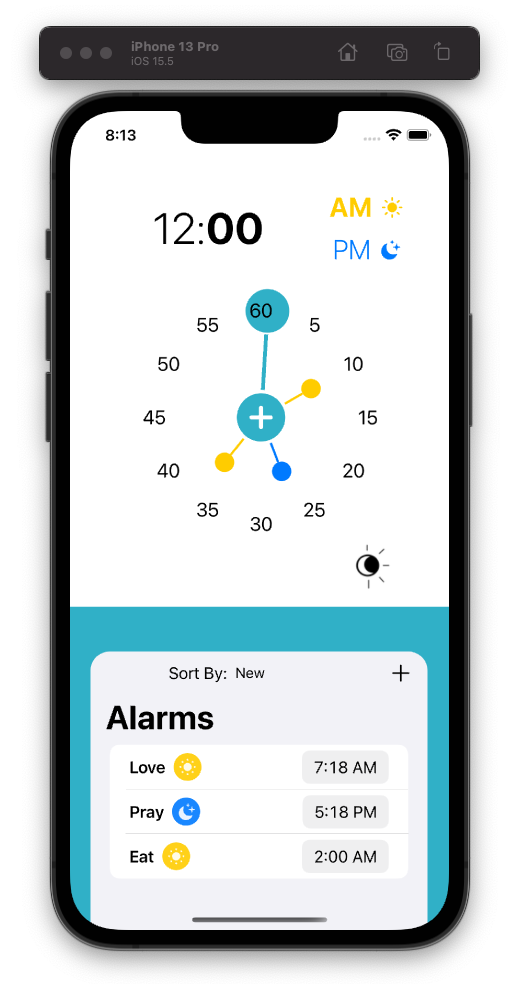
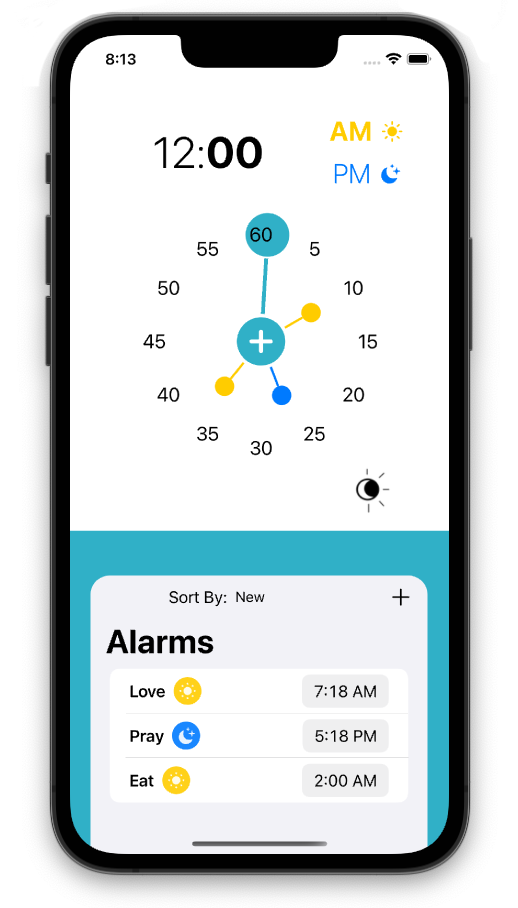
image and blurb

diff --git a/index.md b/index.md
@@ -7,6 +7,10 @@ categories: Apps
 
 <!-- ![image](https://user-images.githubusercontent.com/92299/220574713-c0d4f0c3-a284-410f-a59e-d3b5a84e47ba.png) --> 
 
+&nbsp;
+
+RENSOR App Collection is launching a suite of apps for iOS starting in 2023.
+
 ## Projects
 
 ![image](https://user-images.githubusercontent.com/92299/220574806-efecbde8-0ea5-4b81-bddf-9fe7b43da2ee.png)
@@ -18,7 +22,7 @@ Our first app, Clock App is our first iOS application which has been a learning 
 Clock App was born from our frustration at how the iOS clock alarm feature made it difficult to set daily alarms
 and see all of your alarms at a glance.
 
-<img style="height: 400px;" src="/assets/images/eat_pray_love.png" />
+<img style="height: 400px;" src="/assets/images/eat_pray_love.png?1" />
  
 Currently undergoing testing and finalisation via TestFlight. You can take a look and help us improve and grow by
 requesting access to the test group by [clicking here](https://testflight.apple.com/join/hnngxtcL). 
